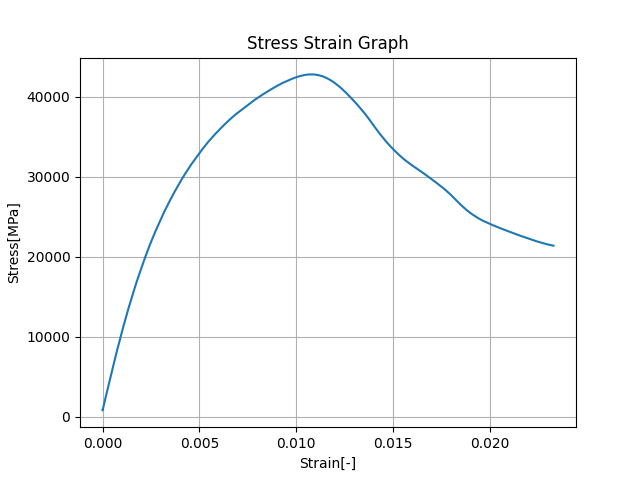
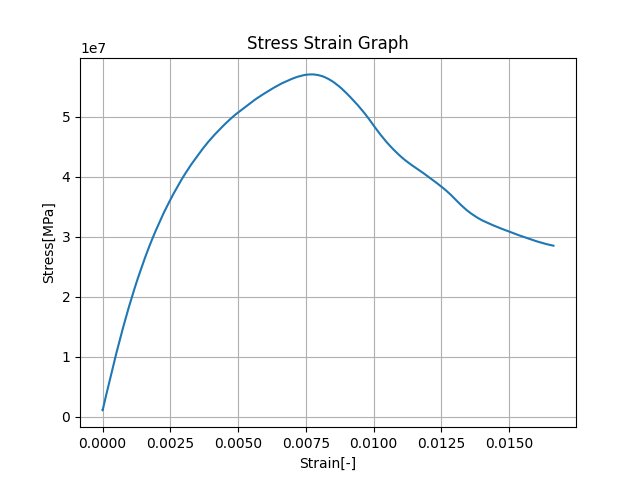
New StiffCalc

diff --git a/mainV2.py b/mainV2.py
@@ -19,12 +19,12 @@ for i in range(len(cdeformation)):
 Compliance_funct = interpolate.interp1d(ncforce, ncdeformation, kind='linear', fill_value='extrapolate')
 
 #FILE COMMANDS
-file = 'bm-s2'
+file = 'bm-s3'
 file2 = 'Data\Compressive\\' + file + '.csv'
 
 #NORMALIZING THE DATA WITH COMPLIANCE
-A = 0.1 #m^2 [PLACEHOLDER]
-original_l = 0.1 #m [PLACEHOLDER]
+A = 0.015*0.005 #m^2 change the 0.005 depending on the sample
+original_l = 0.14 #m
 stress = []
 strain = []
 deformation, force, travel, sg1, ttime = read_csv_file(file2)
@@ -53,14 +53,10 @@ def calculate_ult_tens(stress):
 def calculate_stiffness(strain, stress):
   strain = np.array(strain)
   stress = np.array(stress)
-  strain_stress_funct = interpolate.interp1d(strain, stress, kind = 'cubic' , fill_value='extrapolate')
   stress_derivatives = []
   stress_derivatives.append(stress[1]-stress[0])
-  stress_derivatives.append(stress[1]-stress[0])
-  for i in range(len(stress)-2):
-    k = i+1
-    stress_derivatives.append(stress[k+1]-stress[k-1])
-  print(stress_derivatives)
+  for i in range(len(stress)-1):
+    stress_derivatives.append((stress[i+1]-stress[i]))
   plt.plot(strain, stress_derivatives)
   plt.xlabel('Strain[-]')
   plt.ylabel('Stress[MPa]')
@@ -69,8 +65,8 @@ def calculate_stiffness(strain, stress):
     
   plt.savefig('Derivatives' +'.png')
   
-  strain = strain[5:80] #how to fix :(
-  stress = stress[5:80]
+  #strain = strain[5:80] #how to fix :(
+  #stress = stress[5:80]
   stiffnesslist = []
 
   for i in range(len(stress)):
@@ -80,6 +76,23 @@ def calculate_stiffness(strain, stress):
 
   return stiffness
 
+def stiffness_calc(strain, stress):
+  dx_lst=[]
+  dy_lst=[]
+  lstrain = []
+  for i in range(len(strain)):
+    if strain[i]<=0.00125:
+      lstrain.append(strain[i])
+    else:
+      break
+  for i in range(len(lstrain)-1):
+    dx = lstrain[i+1]-lstrain[i]
+    dy = stress[i+1]-stress[i]
+    dx_lst.append(dx)
+    dy_lst.append(dy)
+  dy_lst.append(lstrain[-1]-lstrain[-2])
+  bplot_graph(lstrain[15:-1], dy_lst[15:-1], 'Derivatives2')
+
 def calculate_toughness(strain, stress):
   strain = np.array(strain)
   stress = np.array(stress)
@@ -88,10 +101,12 @@ def calculate_toughness(strain, stress):
   
   return area
 
+
+stiffness_calc(strain, stress)
 #TESTING DEFINITIONS
 #tensile_ultimate = calculate_ult_tens(stress)
 #print("Ultimate tensile strength is", tensile_ultimate, "N per meter squared")
-stifness_test = calculate_stiffness(strain, stress)
+#stifness_test = calculate_stiffness(strain, stress)
 #print("Stiffness is", stifness_test, "N per m squared")
 #toughness = calculate_toughness(strain, stress)
 #print("Toughness is", toughness, "N per m squared")
